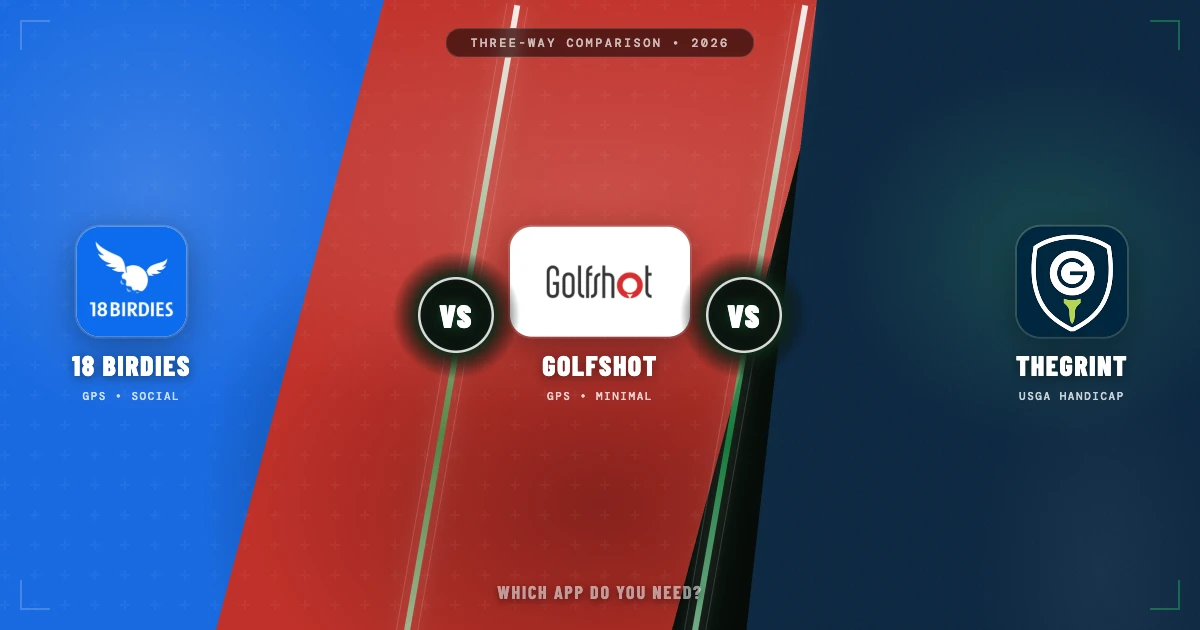
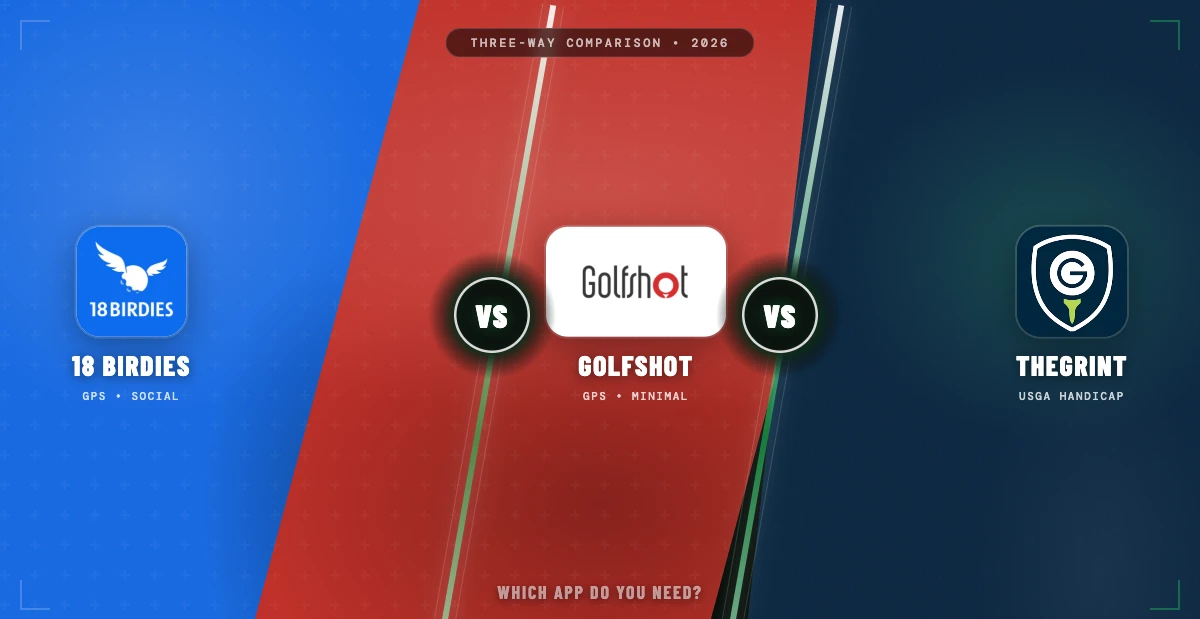
Shift middle red panel slightly right for better proportional balance
The Golfshot panel skewed visually left because of the diagonal panel
shape. Shifted the red panel clip-path, slashes, VS badges, and brand
content right by ~3% so the overall composition feels balanced left-to-
right. Other panels untouched.

diff --git a/blog/images/18birdies-golfshot-thegrint-hero.html b/blog/images/18birdies-golfshot-thegrint-hero.html
@@ -34,7 +34,7 @@
   .panel-2 {
     position: absolute; top: 0; left: 0; width: 100%; height: 100%;
     background: #c0312a;
-    clip-path: polygon(32% 0, 70% 0, 56% 100%, 18% 100%);
+    clip-path: polygon(35% 0, 73% 0, 59% 100%, 21% 100%);
     z-index: 2;
   }
   .panel-2::before {
@@ -77,8 +77,8 @@
   }
   .slash::before, .slash::after { content: ''; position: absolute; top: 0; width: 1px; height: 100%; background: rgba(255,255,255,0.15); }
   .slash::before { left: -8px; } .slash::after { right: -8px; }
-  .slash-1 { left: 38%; transform: translateX(-50%) rotate(10deg); }
-  .slash-2 { left: 62%; transform: translateX(-50%) rotate(10deg); }
+  .slash-1 { left: 41%; transform: translateX(-50%) rotate(10deg); }
+  .slash-2 { left: 65%; transform: translateX(-50%) rotate(10deg); }
 
   /* ── VS BADGES (smaller for 3-way) ── */
   .vs-badge {
@@ -101,8 +101,8 @@
     font-weight: 900; font-size: 32px; letter-spacing: 0.04em;
     color: #fff; text-shadow: 0 0 22px rgba(34,197,94,0.5);
   }
-  .vs-1 { left: 38%; }
-  .vs-2 { left: 62%; }
+  .vs-1 { left: 41%; }
+  .vs-2 { left: 65%; }
 
   /* ── BRAND BLOCKS ── */
   .brand {
@@ -111,7 +111,7 @@
     display: flex; flex-direction: column; align-items: center; gap: 14px;
   }
   .brand-1 { left: 6%; }
-  .brand-2 { left: 50%; transform: translate(-50%, -50%); }
+  .brand-2 { left: 53%; transform: translate(-50%, -50%); }
   .brand-3 { right: 6%; }
 
   .brand-logo {
